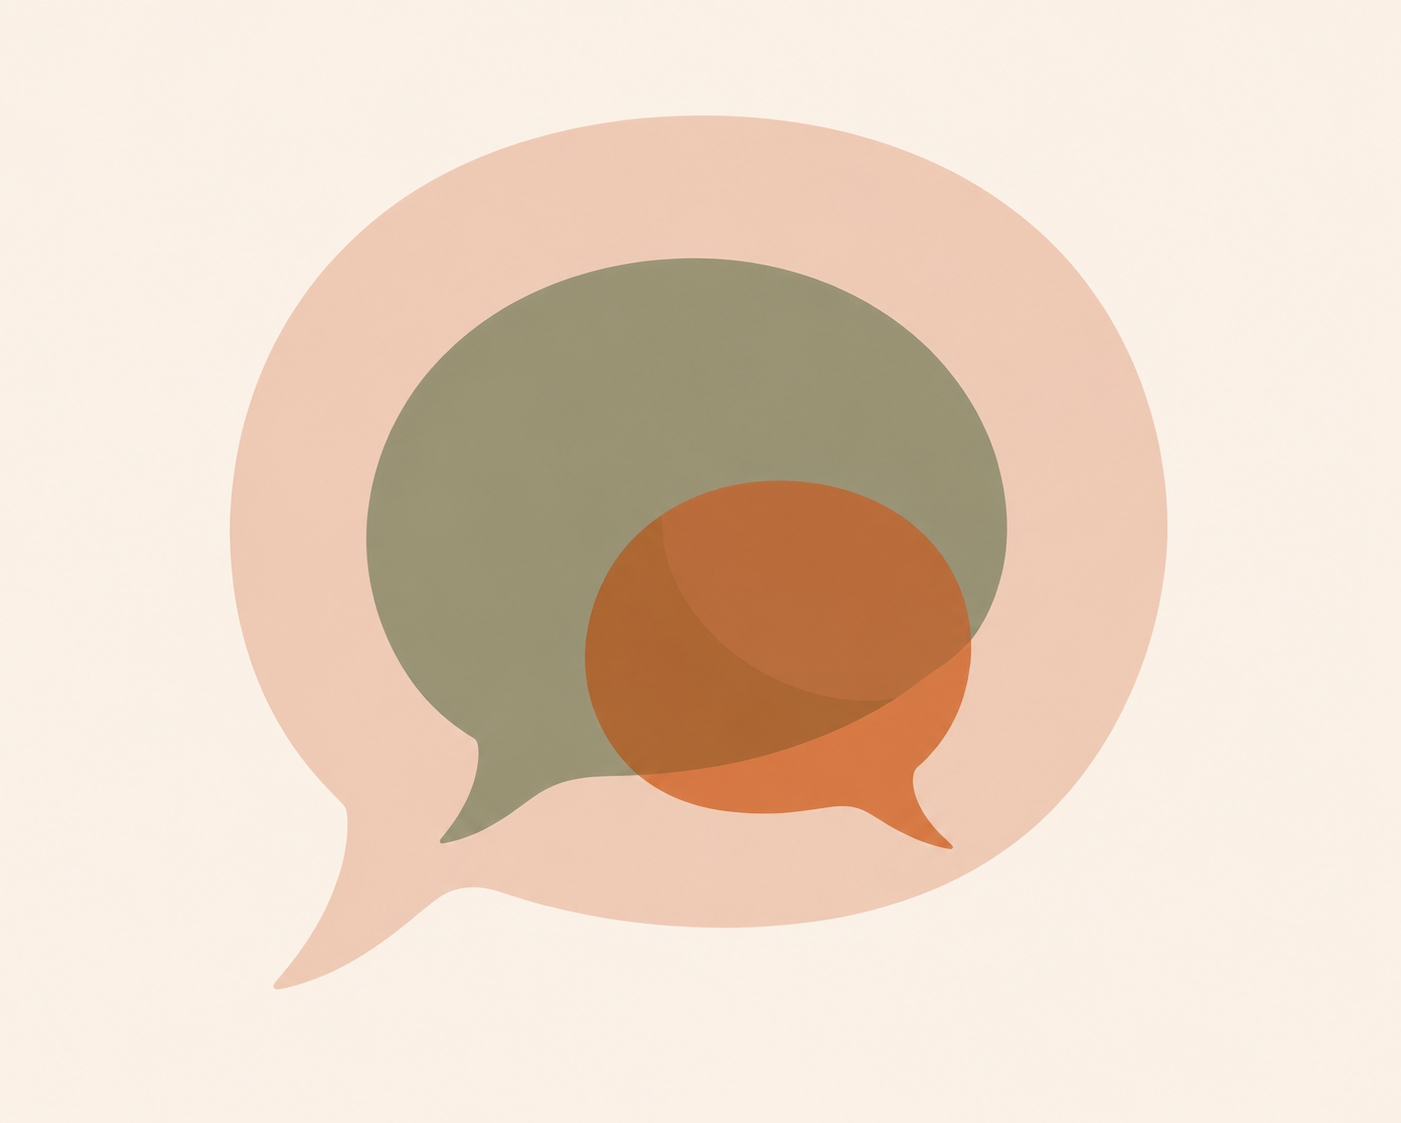
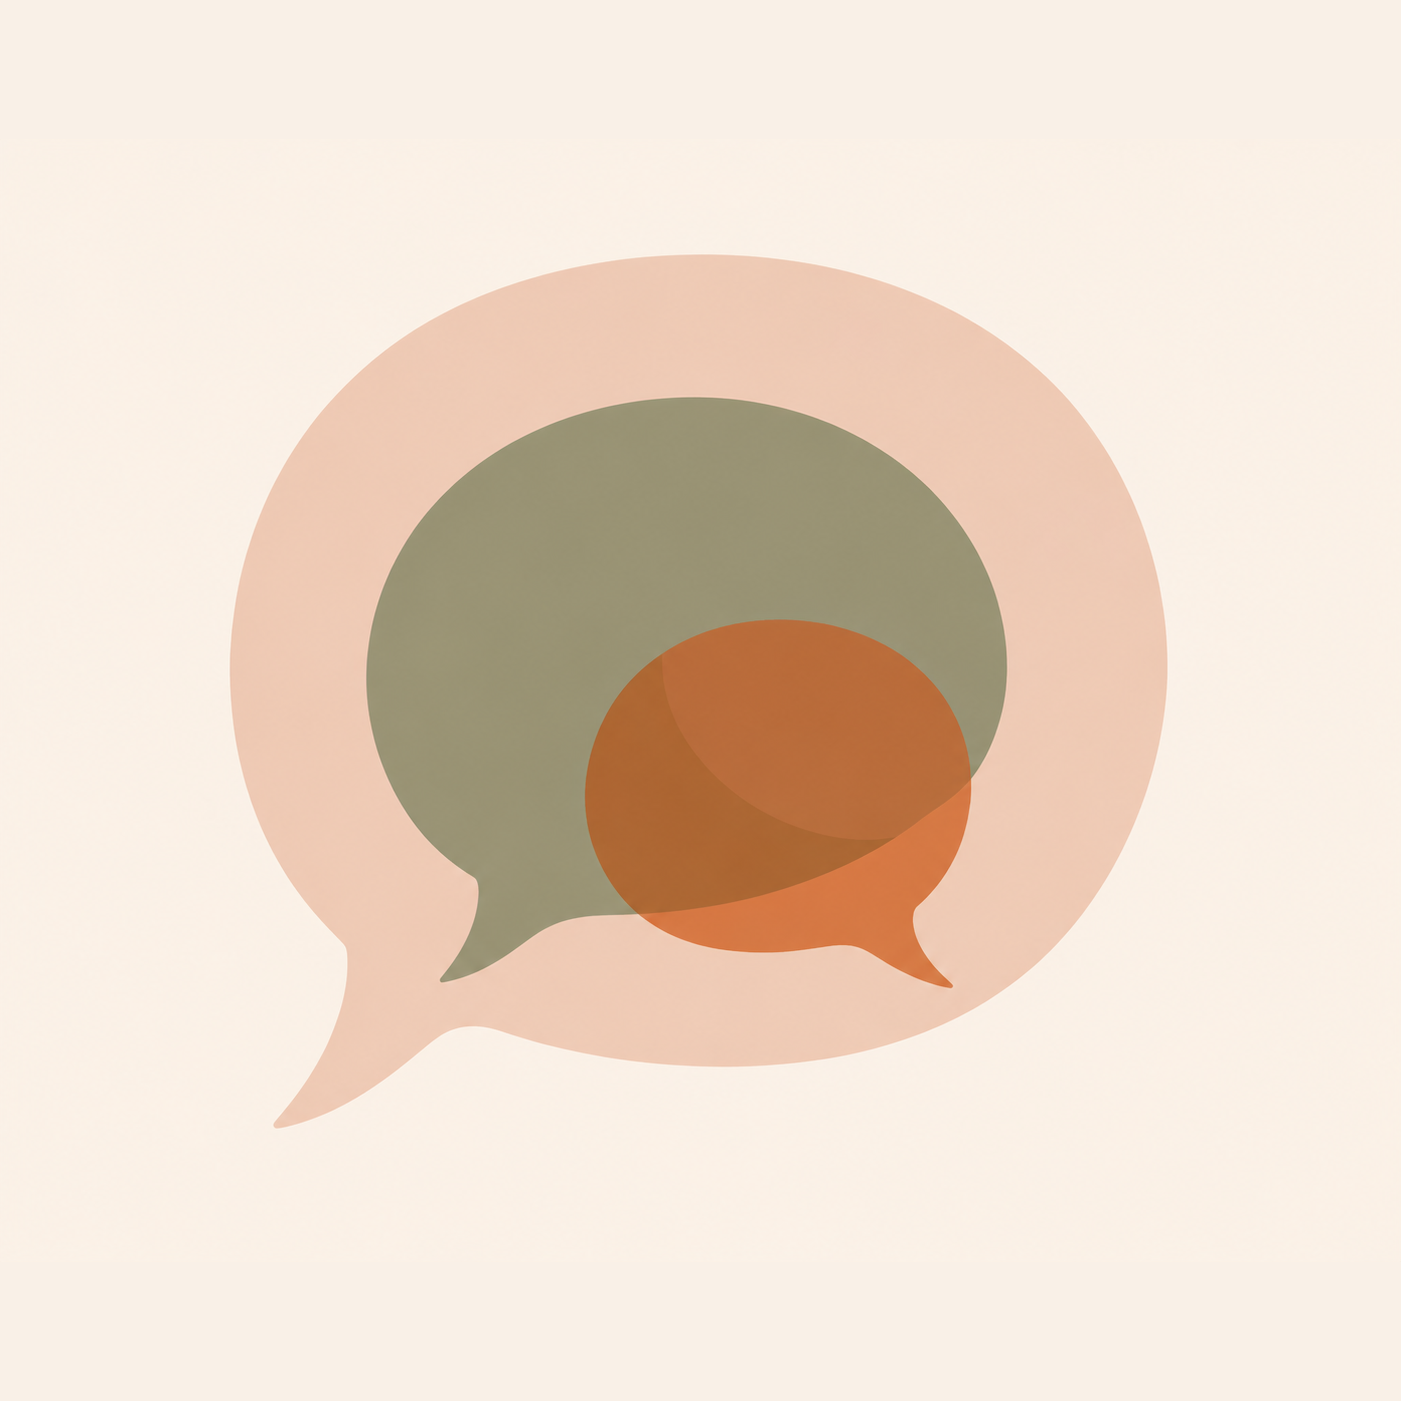
Client revision batch: branding, pricing, and content updates
- Replace header/footer brand text with real logo images (header +
  lighter footer variant), both trimmed/transparent from the source files
- Add Anna's signature under the biography text, with the CTA button
  spaced further down
- Pad both service icons to a square canvas so object-fit:cover no
  longer crops their edges
- Change "01"/"02" step numbers to "Step 1"/"Step 2" (home + services)
- Update package prices: individual €390→€385, relationship €570→€550
- Rename "Practice Principles" to "Practice Policies" sitewide
- Rewrite the My Approach "Perspectives" section (new heading, five
  sub-perspectives, closing paragraph) and drop the boxed hypnosis card
  to match the page's plain section layout
- Recolor the My Approach CTA (terracotta box, olive-green button)
- Update page title/meta description so "Counselling Practice" shows
  next to the site name in search results instead of "Psychotherapy"

diff --git a/templates/approach.html b/templates/approach.html
@@ -15,28 +15,45 @@
         </section>
 
         <section>
-          <h2>Perspectives That Inform My Work</h2>
-          <div class="prose">
-            <p>A central part of our work is exploring your inner dialogue—the ongoing conversations you have with yourself. Together, we examine how these internal narratives influence the way you feel, relate to others, and make sense of your experiences. By understanding how these conversations have developed over time, we can begin to recognise recurring patterns and consider ways of responding that feel more aligned with who you are and how you want to live.</p>
-            <p>My work is informed by health and social psychology, systemic perspectives, parts-oriented thinking, and hypnosis techniques. I draw from these perspectives flexibly, adapting our work to your individual needs, preferences, and goals.</p>
+          <h2>Perspectives I Draw From</h2>
+          <div class="prose perspectives-list">
+            <div class="perspective-item">
+              <h3>Inner Dialogue</h3>
+              <p>The way we speak to ourselves shapes how we feel, relate to others, and make sense of our experiences. Together, we can explore these internal conversations, recognise recurring patterns, and consider ways of responding that feel more aligned with who you are and how you want to live.</p>
+            </div>
+            <div class="perspective-item">
+              <h3>Relational &amp; Systemic Perspectives</h3>
+              <p>Our experiences don't happen in isolation. We can consider how your relationships, family, culture, and wider social environment shape the way you see yourself and the world around you.</p>
+            </div>
+            <div class="perspective-item">
+              <h3>Acceptance &amp; Commitment Therapy (ACT)</h3>
+              <p>We can find ways to relate differently to difficult thoughts and feelings, clarify what matters to you, and live more in line with your values.</p>
+            </div>
+            <div class="perspective-item">
+              <h3>Parts Work</h3>
+              <p>Different sides of ourselves can hold conflicting feelings, needs, or impulses. By getting to know these parts we can develop a deeper understanding of ourselves and our responses.</p>
+            </div>
+            <div class="perspective-item">
+              <h3>Hypnosis Techniques</h3>
+              <p>When appropriate, hypnosis can support relaxation, focus, and openness to new perspectives.</p>
+            </div>
+            <p class="perspectives-closing">I draw from these perspectives flexibly, rather than following a fixed method. Our work is shaped around what feels most relevant and useful to you.</p>
           </div>
         </section>
 
         <section>
           <h2>Hypnosis</h2>
-          <div class="approach-hypnosis">
-            <div class="prose">
-              <p>Hypnosis is one of several tools I may incorporate into our work when it feels appropriate and aligned with your goals. It can offer a way to slow down, focus your attention, and explore thoughts, emotions, and patterns from a different perspective.</p>
-              <p>Despite common misconceptions, hypnosis does not involve losing control or being unconscious. Instead, it is a natural state of focused attention where you remain aware, engaged, and able to make choices throughout the process.</p>
-              <p style="margin-bottom:0;">Whether hypnosis becomes part of our work is always a collaborative decision, guided by what feels most supportive and meaningful for you.</p>
-            </div>
+          <div class="prose">
+            <p>Hypnosis is one of several tools I may incorporate into our work when it feels appropriate and aligned with your goals. It can offer a way to slow down, focus your attention, and explore thoughts, emotions, and patterns from a different perspective.</p>
+            <p>Despite common misconceptions, hypnosis does not involve losing control or being unconscious. Instead, it is a natural state of focused attention where you remain aware, engaged, and able to make choices throughout the process.</p>
+            <p style="margin-bottom:0;">Whether hypnosis becomes part of our work is always a collaborative decision, guided by what feels most supportive and meaningful for you.</p>
           </div>
         </section>
 
         <div class="approach-cta">
           <h3>Ready to take the next step?</h3>
           <p style="color:var(--text);">Reach out to get in touch or book a free introductory call.</p>
-          <a class="btn btn-primary" href="{{ url_for('contact') }}">Get in Touch</a>
+          <a class="btn btn-sage" href="{{ url_for('contact') }}">Get in Touch</a>
         </div>
       </div>
 

diff --git a/templates/base.html b/templates/base.html
@@ -4,7 +4,7 @@
   <meta charset="utf-8">
   <meta name="viewport" content="width=device-width, initial-scale=1">
   <title>{% block title %}Matsi Counselling{% endblock %}</title>
-  <meta name="description" content="{% block meta_description %}Matsi Counselling — psychotherapy, counselling and hypnotherapy with Anna Matsi in Berlin.{% endblock %}">
+  <meta name="description" content="{% block meta_description %}Matsi Counselling — a counselling practice offering counselling and hypnotherapy with Anna Matsi in Berlin.{% endblock %}">
   <link rel="preconnect" href="https://fonts.googleapis.com">
   <link rel="preconnect" href="https://fonts.gstatic.com" crossorigin>
   <link href="https://fonts.googleapis.com/css2?family=DM+Serif+Display&family=DM+Sans:wght@400;500;700&display=swap" rel="stylesheet">
@@ -22,7 +22,9 @@
     </div>
     <nav class="main-nav">
       <div class="container">
-        <a class="brand" href="{{ url_for('home') }}">Matsi Counselling</a>
+        <a class="brand" href="{{ url_for('home') }}">
+          <img src="{{ url_for('static', path='images/logo-header.png') }}" alt="Matsi Counselling">
+        </a>
         <ul class="nav-links">
           <li><a href="{{ url_for('home') }}" class="{{ 'active' if active_page == 'home' else '' }}">Home</a></li>
           <li><a href="{{ url_for('about') }}" class="{{ 'active' if active_page == 'about' else '' }}">About Me</a></li>
@@ -54,8 +56,7 @@
     <div class="container">
       <div class="footer-grid">
         <div>
-          <div class="footer-brand">Matsi Counselling</div>
-          <p class="footer-tagline">A space to make sense of your experiences, one conversation at a time.</p>
+          <img class="footer-logo" src="{{ url_for('static', path='images/logo-footer.png') }}" alt="Matsi Counselling">
         </div>
         <div>
           <div class="footer-heading">Navigation</div>
@@ -65,7 +66,7 @@
             <li><a href="{{ url_for('approach') }}">My Approach</a></li>
             <li><a href="{{ url_for('services') }}">Services</a></li>
             <li><a href="{{ url_for('contact') }}">Contact</a></li>
-            <li><a href="{{ url_for('principles') }}">Practice Principles</a></li>
+            <li><a href="{{ url_for('principles') }}">Practice Policies</a></li>
           </ul>
         </div>
         <div>

diff --git a/static/css/style.css b/static/css/style.css
@@ -148,6 +148,16 @@ button {
   color: var(--cream);
 }
 
+.btn-sage {
+  background: var(--sage-deep);
+  color: var(--cream);
+}
+
+.btn-sage:hover {
+  background: var(--sage);
+  box-shadow: var(--shadow-card);
+}
+
 .btn-quiet {
   background: var(--cream);
   color: var(--terracotta-deep);
@@ -229,10 +239,14 @@ button {
 }
 
 .brand {
-  font-family: var(--font-heading);
-  font-size: 1.4rem;
-  color: var(--sage-deep);
   flex: none;
+  display: flex;
+  align-items: center;
+}
+
+.brand img {
+  height: 42px;
+  width: auto;
 }
 
 .nav-links {
@@ -360,16 +374,9 @@ button {
   padding-bottom: 40px;
 }
 
-.footer-brand {
-  font-family: var(--font-heading);
-  font-size: 1.35rem;
-}
-
-.footer-tagline {
-  margin-top: 10px;
-  font-size: 0.85rem;
-  color: var(--sage-pale);
-  max-width: 26ch;
+.footer-logo {
+  height: 48px;
+  width: auto;
 }
 
 .footer-nav {
@@ -516,6 +523,17 @@ button {
 
 .prose p {
   color: var(--text);
+}
+
+.bio-signature {
+  display: block;
+  height: 64px;
+  width: auto;
+  margin: 8px 0 32px;
+}
+
+.bio-cta {
+  margin-top: 8px;
 }
 
 .divider {
@@ -689,10 +707,10 @@ button {
 
 .start-step-num {
   font-family: var(--font-heading);
-  font-size: 2.4rem;
+  font-size: 1.5rem;
   color: var(--terracotta);
   line-height: 1;
-  margin-bottom: 6px;
+  margin-bottom: 10px;
 }
 
 .start-card h3 {
@@ -845,15 +863,27 @@ button {
   height: auto;
 }
 
-.approach-hypnosis {
-  background: var(--peach-soft);
-  border-radius: var(--radius-lg);
-  padding: 40px;
-  margin: 12px 0;
+.perspective-item {
+  margin-bottom: 28px;
+}
+
+.perspective-item h3 {
+  font-size: 1.15rem;
+  color: var(--sage-deep);
+  margin-bottom: 0.3em;
+}
+
+.perspective-item p {
+  margin-bottom: 0;
+}
+
+.perspectives-closing {
+  margin-top: 8px;
+  font-style: italic;
 }
 
 .approach-cta {
-  background: var(--sage);
+  background: var(--terracotta);
   border-radius: var(--radius-lg);
   padding: 56px 44px;
   text-align: center;
@@ -1022,7 +1052,7 @@ button {
   text-align: center;
 }
 
-.gs-step .start-step-num { font-size: 1.9rem; }
+.gs-step .start-step-num { font-size: 1.3rem; }
 
 @media (max-width: 760px) {
   .gs-steps { grid-template-columns: 1fr; }

diff --git a/templates/services.html b/templates/services.html
@@ -62,7 +62,7 @@
           <p>For those who would like to continue the counselling process over time, this package includes six sessions at a reduced rate.</p>
         </div>
         <div class="service-card-side">
-          <div class="service-price">&euro;390</div>
+          <div class="service-price">&euro;385</div>
           <div class="service-meta">6 sessions<br>50 minutes each<br>valid for 6 months</div>
           <a class="btn btn-quiet" href="{{ url_for('contact') }}">Schedule</a>
         </div>
@@ -83,7 +83,7 @@
           <p>For couples and diverse relationship structures who would like to continue the counselling process over time, this package includes six sessions at a reduced rate.</p>
         </div>
         <div class="service-card-side">
-          <div class="service-price">&euro;570</div>
+          <div class="service-price">&euro;550</div>
           <div class="service-meta">6 sessions<br>50 minutes each<br>valid for 6 months</div>
           <a class="btn btn-quiet" href="{{ url_for('contact') }}">Schedule</a>
         </div>
@@ -94,13 +94,13 @@
       <h2 class="getting-started-title" style="text-align:center;">Getting Started</h2>
       <div class="gs-steps">
         <div class="gs-step">
-          <div class="start-step-num">01</div>
+          <div class="start-step-num">Step 1</div>
           <h3>Initial Call</h3>
           <p style="margin:0;">Book an initial 20-minute online call free of charge.</p>
         </div>
         <div class="gs-connector">&rarr;</div>
         <div class="gs-step">
-          <div class="start-step-num">02</div>
+          <div class="start-step-num">Step 2</div>
           <h3>First Session</h3>
           <p style="margin:0;">Book your first online session at your convenience.</p>
         </div>

diff --git a/templates/about.html b/templates/about.html
@@ -14,7 +14,8 @@
           <p>Over the years, I have worked in a variety of settings, supporting neurodivergent individuals, unaccompanied minor refugees, and clients in private practice. Having lived in Cyprus, the Netherlands, and Germany, I have developed an appreciation for the ways culture, relationships, and life experiences shape how we see ourselves, relate to others, and navigate the world around us.</p>
           <p>My work is guided by curiosity, compassion, and a deep respect for each person's individual story. I believe that our experiences can only be understood within the context of our unique histories, relationships, and circumstances, and I aim to create space for this complexity in my work with others.</p>
         </div>
-        <a class="btn btn-primary" href="{{ url_for('approach') }}">Read More About My Approach</a>
+        <img class="bio-signature" src="{{ url_for('static', path='images/anna-signature.png') }}" alt="Anna Matsi's signature">
+        <a class="btn btn-primary bio-cta" href="{{ url_for('approach') }}">Read More About My Approach</a>
       </div>
       <div class="about-photo-col">
         <div class="about-photo-frame">

diff --git a/templates/index.html b/templates/index.html
@@ -1,5 +1,5 @@
 {% extends "base.html" %}
-{% block title %}Matsi Counselling — Psychotherapy &amp; Counselling in Berlin{% endblock %}
+{% block title %}Matsi Counselling — Counselling Practice in Berlin{% endblock %}
 
 {% block content %}
 <section class="slider" id="homeSlider">
@@ -66,13 +66,13 @@
       <div class="container">
         <div class="start-cards">
           <div class="start-card">
-            <div class="start-step-num">01</div>
+            <div class="start-step-num">Step 1</div>
             <h3>Schedule an Intro Call</h3>
             <p>Book an initial 20-minute online call free of charge.</p>
             <a class="btn btn-primary" href="{{ url_for('contact') }}">Book an Appointment</a>
           </div>
           <div class="start-card">
-            <div class="start-step-num">02</div>
+            <div class="start-step-num">Step 2</div>
             <h3>Schedule a Session</h3>
             <p>Book your first online session at your convenience.</p>
             <a class="btn btn-primary" href="{{ url_for('contact') }}">Book an Appointment</a>

diff --git a/templates/contact.html b/templates/contact.html
@@ -81,7 +81,7 @@
         <div class="form-group">
           <div class="checkbox-row {{ 'has-error' if errors and errors.agree else '' }}">
             <input type="checkbox" id="agree" name="agree" required {{ 'checked' if form_data and form_data.agree }}>
-            <label for="agree">I have read and agree to the <a href="{{ url_for('principles') }}">Practice Principles</a>.</label>
+            <label for="agree">I have read and agree to the <a href="{{ url_for('principles') }}">Practice Policies</a>.</label>
           </div>
           {% if errors and errors.agree %}<div class="field-error is-visible">{{ errors.agree }}</div>{% endif %}
         </div>

diff --git a/static/js/contact-form.js b/static/js/contact-form.js
@@ -87,7 +87,7 @@
     var agreeRow = agreeCheckbox.closest(".checkbox-row");
     if (!agreeCheckbox.checked) {
       if (agreeRow) agreeRow.classList.add("has-error");
-      showError(fieldErrorFor(agreeCheckbox), "Please confirm you agree to the Practice Principles before sending your message.");
+      showError(fieldErrorFor(agreeCheckbox), "Please confirm you agree to the Practice Policies before sending your message.");
       firstInvalid = firstInvalid || agreeCheckbox;
     } else {
       if (agreeRow) agreeRow.classList.remove("has-error");

diff --git a/templates/principles.html b/templates/principles.html
@@ -1,10 +1,10 @@
 {% extends "base.html" %}
-{% block title %}Practice Principles — Matsi Counselling{% endblock %}
+{% block title %}Practice Policies — Matsi Counselling{% endblock %}
 
 {% block content %}
 <section class="page-hero section-cream">
   <div class="container">
-    <h1 class="page-title">Practice Principles</h1>
+    <h1 class="page-title">Practice Policies</h1>
     <div class="divider"></div>
 
     <div class="principles-layout">

diff --git a/main.py b/main.py
@@ -157,7 +157,7 @@ def validate_contact_form(name, email, interest, counselling_type, agree):
         errors["counselling_type"] = "Please select a type of counselling."
 
     if not agree:
-        errors["agree"] = "Please confirm you agree to the Practice Principles."
+        errors["agree"] = "Please confirm you agree to the Practice Policies."
 
     return errors
 
